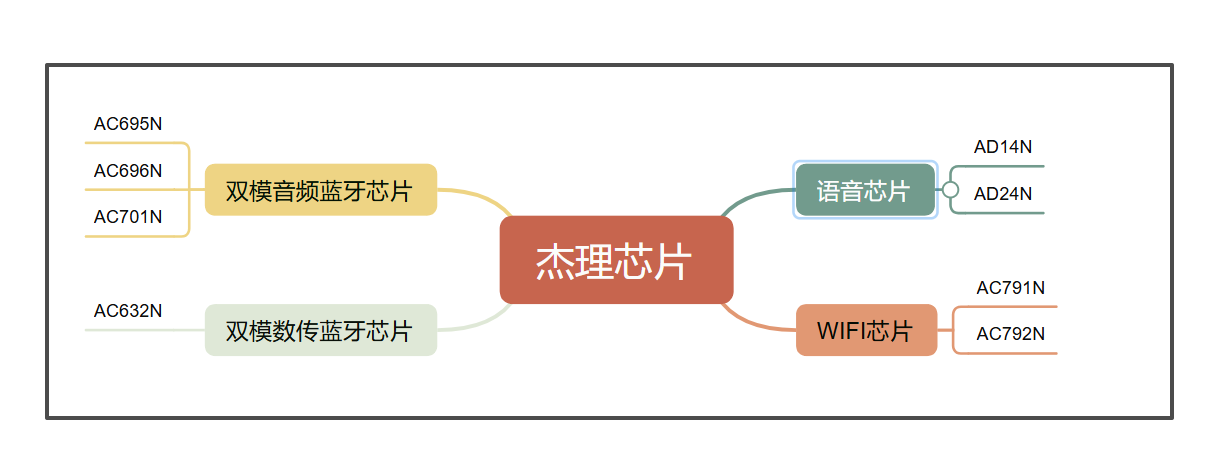
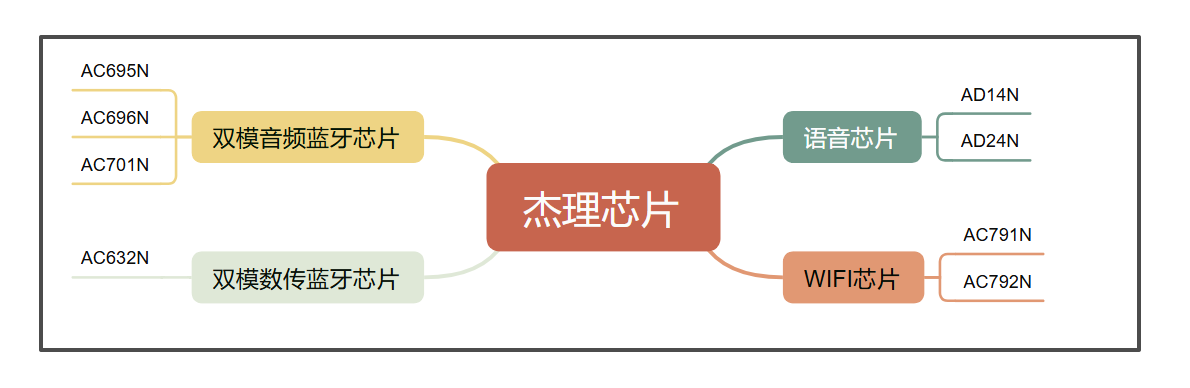
AC696N资料优化

Changed region(s): [[0.0311, 0.0928, 0.9639, 0.9278]]

diff --git a/docs/AC696N/AC696N_0_1.md b/docs/AC696N/AC696N_0_1.md
@@ -19,3 +19,30 @@ AC696N开发板及样品购买链接：[点击购买](https://item.taobao.com/it
 技术交流QQ群：764468449
 
 
+
+## 一、AC696N通用核心功能
+
+- 搭载 32 位带硬件浮点运算单元（FPU）的 DSP 处理器，最高可编程主频 160MHz，内置 136KB RAM
+- 支持 SBC、AAC 蓝牙音频解码与 mSBC 蓝牙通话编解码，全格式兼容 MP2、MP3、WMA、APE、FLAC、AAC、WAV 等主流音频解码
+- 内置专业音频处理能力：支持语音丢包补偿（PLC）、声学回声消除 / 抑制（AEC/AES），配备多频段 DRC 限幅器，支持 10 段EQ 均衡器
+- 集成高规格音频 Codec：1 通道 16 位 ADC（信噪比 SNR≥90dB），支持 8KHz~48KHz 全档位采样率
+- 符合蓝牙 V6.0 BR+EDR+BLE 双模规范，最大 + 6dBm 发射功率、最低 - 90dBm 接收灵敏度，内置快速 AGC 电路，兼容全主流蓝牙音频协议
+- 配备丰富外设：全速 USB 2.0 OTG 控制器、6 个支持捕获 / PWM 的 32 位多功能定时器、3 路全双工 UART（2 路支持 DMA）、主从模式硬件 IIC 接口、10 位 ADC，全 GPIO 支持外部唤醒与中断
+- 集成电源管理单元（PMU），内置多路线性稳压器（LDO）；软关断模式待机功耗低至 3uA，I/O 口供电范围 2.2V~3.6V
+- 存储温度范围覆盖 - 65℃~+150℃，适配多场景应用需求
+
+------
+
+## 二、AC696N差异对比表
+
+
+
+| 对比维度             | AC6965A                    | AC6965E                   | AC6966B                    | AC6969D                   |
+| -------------------- | -------------------------- | ------------------------- | -------------------------- | ------------------------- |
+| 音频 DAC 配置        | 2 通道 16 位 DAC，SNR104dB | 1 通道 16 位 DAC，SNR99dB | 2 通道 16 位 DAC，SNR104dB | 1 通道 16 位 DAC，SNR99dB |
+| 电池供电（VBAT）范围 | 2.2V ~ 5.5V                | 2.2V ~ 5.5V               | 2.2V ~ 4.5V                | 2.2V ~ 5.5V               |
+| 封装形式             | QSOP24                     | QSOP24                    | QFN32（4mm*4mm）           | SOP16                     |
+| 工作温度范围         | -20℃ ~ +70℃                | -20℃ ~ +70℃               | -40℃ ~ +85℃                | -40℃ ~ +85℃               |
+| IO数量               | 11                         | 14                        | 21                         | 7                         |
+| SPDIF                | ×                          | ×                         | RX                         | RX                        |
+| IIS                  | ×                          | ×                         | √                          | ×                         |

diff --git a/docs/AC63N/工程模板/1.md b/docs/AC63N/工程模板/1.md
@@ -11,22 +11,33 @@ AC63N样品购买链接：[点击购买](https://item.taobao.com/item.htm?ft=t&i
 
 
 
-- **AC63系列 SoC 芯片支持以下特性**
+## 1.1. AC632N系列芯片特性
 
-· 蓝牙双模（支持蓝牙EDR、蓝牙BLE5.2)，发射功率 +8dBm
+- 蓝牙双模（支持蓝牙EDR、蓝牙BLE5.2)，发射功率 +8dBm
 
-· 主频最高可达96MHz的32bitCPU，片上集成73K字节SRAM，支持浮点与数学函数加速运算
+- 主频最高可达96MHz的32bitCPU，片上集成73K字节SRAM，支持浮点与数学函数加速运算
 
-· 超低功耗处理器：**软关机：2uA**，**休眠：18uA**，**500ms广播工作：60uA**
+- 超低功耗处理器：**软关机：2uA**，**休眠：18uA**，**500ms广播工作：60uA**
 
-· 数传透传智能设备，支持低功耗RTC，闹钟和时基唤醒
+- 数传透传智能设备，支持低功耗RTC，闹钟和时基唤醒
 
-· 支持超低功耗蓝牙广播、连接待机、组网传输等
+- 支持超低功耗蓝牙广播、连接待机、组网传输等
 
-· 具有低延时远距离数据传输能力，满足音乐播放控制、智能控制、传感器收集数据传输及处理要求
+- 具有低延时远距离数据传输能力，满足音乐播放控制、智能控制、传感器收集数据传输及处理要求
 
-· 提供USB、按键ADC、IIC、SPI、Q-decoder、MCPWM、LED CONTROL 等丰富的外设接口。
+- 提供USB、按键ADC、IIC、SPI、Q-decoder、MCPWM、LED CONTROL 等丰富的外设接口。
 
 
 
-![img](img/101.png)
+## 1.2. AC632N系列芯片特性差异对比
+
+| 型号    | 封装  | IO   | ADC  | USB  | PWM  | 电源模式 | 工作电压 |
+| ------- | ----- | ---- | ---- | ---- | ---- | -------- | -------- |
+| AC6321A | QFN32 | 25   | 16   | 2    | 4+3  | LDO/DCDC | 1.8-5.5V |
+| AC6323A | QFN20 | 17   | 8    | 1    | 4+3  | LDO/DCDC | 1.8-5.5V |
+| AC6329C | SOP16 | 11   | 6    | 1    | 4+3  | LDO      | 1.8-3.4V |
+| AC6328A | SOP8  | 3    | 3    | 1    | 3    | LDO      | 1.8-3.4V |
+| AC6328B | SOP8  | 2    | 2    | 1    | 2    | LDO      | 1.8-5.5V |
+
+
+

diff --git a/docs/AC791N/开发板介绍/1.md b/docs/AC791N/开发板介绍/1.md
@@ -6,7 +6,9 @@
 
 技术交流QQ群：593243414
 
-- **AC791N系列 SoC 芯片支持以下特性**
+
+
+## 1.1. AC791N系列芯片特性
 
 · WiFi 802.11b/g/n（20/40MHz），支持WPA/WPA2加密，发射功率最高17dBm
 

diff --git a/docs/AC792N/开发板介绍/1.md b/docs/AC792N/开发板介绍/1.md
@@ -8,7 +8,7 @@
 
 
 
-- **AC792N系列 SoC 芯片支持以下特性**
+## 1.1. AC792N系列芯片特性
 
 · WiFi 802.11b/g/n（20/40MHz），支持WPA/WPA2/WPA3加密，发射功率最高19dBm
 
